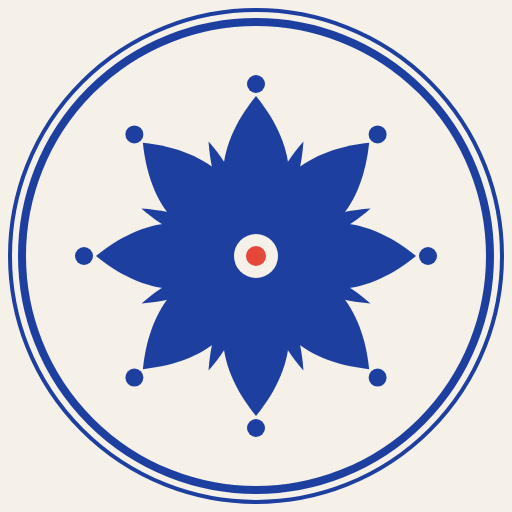
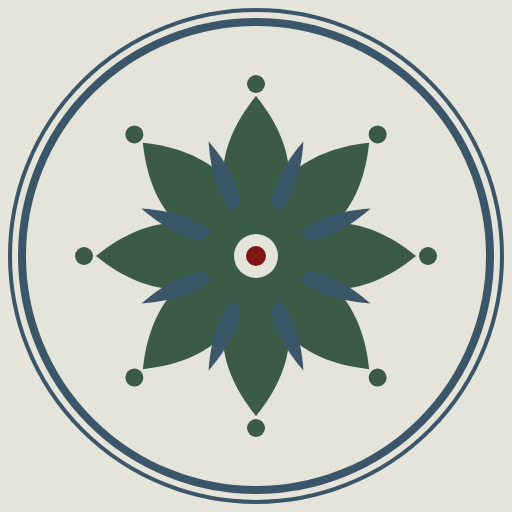
Retheme to Limewash/Basalt palette and Spectral/Plex typography
Recolor header, badges, and avatar to the new system: Limewash
ground, Basalt ink, Laurisilva/Ocean calm pair, Faluröd accent,
Granite subtitle. Switch header type to Spectral 500 display and
IBM Plex Mono technical line.

diff --git a/README.md b/README.md
@@ -2,19 +2,19 @@
 
 ### Languages
 
-![Python](https://img.shields.io/badge/Python-1a1a1a?style=flat-square&logo=python&logoColor=f5f1e8)
-![TypeScript](https://img.shields.io/badge/TypeScript-1a1a1a?style=flat-square&logo=typescript&logoColor=f5f1e8)
-![JavaScript](https://img.shields.io/badge/JavaScript-1a1a1a?style=flat-square&logo=javascript&logoColor=f5f1e8)
-![Bash](https://img.shields.io/badge/Bash-1a1a1a?style=flat-square&logo=gnubash&logoColor=f5f1e8)
+![Python](https://img.shields.io/badge/Python-171E1A?style=flat-square&logo=python&logoColor=E5E4DB)
+![TypeScript](https://img.shields.io/badge/TypeScript-171E1A?style=flat-square&logo=typescript&logoColor=E5E4DB)
+![JavaScript](https://img.shields.io/badge/JavaScript-171E1A?style=flat-square&logo=javascript&logoColor=E5E4DB)
+![Bash](https://img.shields.io/badge/Bash-171E1A?style=flat-square&logo=gnubash&logoColor=E5E4DB)
 
 ### Frameworks &amp; tooling
 
-![FastAPI](https://img.shields.io/badge/FastAPI-1a1a1a?style=flat-square&logo=fastapi&logoColor=f5f1e8)
-![Next.js](https://img.shields.io/badge/Next.js-1a1a1a?style=flat-square&logo=nextdotjs&logoColor=f5f1e8)
-![React](https://img.shields.io/badge/React-1a1a1a?style=flat-square&logo=react&logoColor=f5f1e8)
-![Tailwind CSS](https://img.shields.io/badge/Tailwind_CSS-1a1a1a?style=flat-square&logo=tailwindcss&logoColor=f5f1e8)
-![PostgreSQL](https://img.shields.io/badge/PostgreSQL-1a1a1a?style=flat-square&logo=postgresql&logoColor=f5f1e8)
-![Linux](https://img.shields.io/badge/Linux-1a1a1a?style=flat-square&logo=linux&logoColor=f5f1e8)
-![Git](https://img.shields.io/badge/Git-1a1a1a?style=flat-square&logo=git&logoColor=f5f1e8)
+![FastAPI](https://img.shields.io/badge/FastAPI-171E1A?style=flat-square&logo=fastapi&logoColor=E5E4DB)
+![Next.js](https://img.shields.io/badge/Next.js-171E1A?style=flat-square&logo=nextdotjs&logoColor=E5E4DB)
+![React](https://img.shields.io/badge/React-171E1A?style=flat-square&logo=react&logoColor=E5E4DB)
+![Tailwind CSS](https://img.shields.io/badge/Tailwind_CSS-171E1A?style=flat-square&logo=tailwindcss&logoColor=E5E4DB)
+![PostgreSQL](https://img.shields.io/badge/PostgreSQL-171E1A?style=flat-square&logo=postgresql&logoColor=E5E4DB)
+![Linux](https://img.shields.io/badge/Linux-171E1A?style=flat-square&logo=linux&logoColor=E5E4DB)
+![Git](https://img.shields.io/badge/Git-171E1A?style=flat-square&logo=git&logoColor=E5E4DB)
 
 ###### [klarum.com](https://www.klarum.com) &nbsp;·&nbsp; [noah@klarum.com](mailto:noah@klarum.com)
